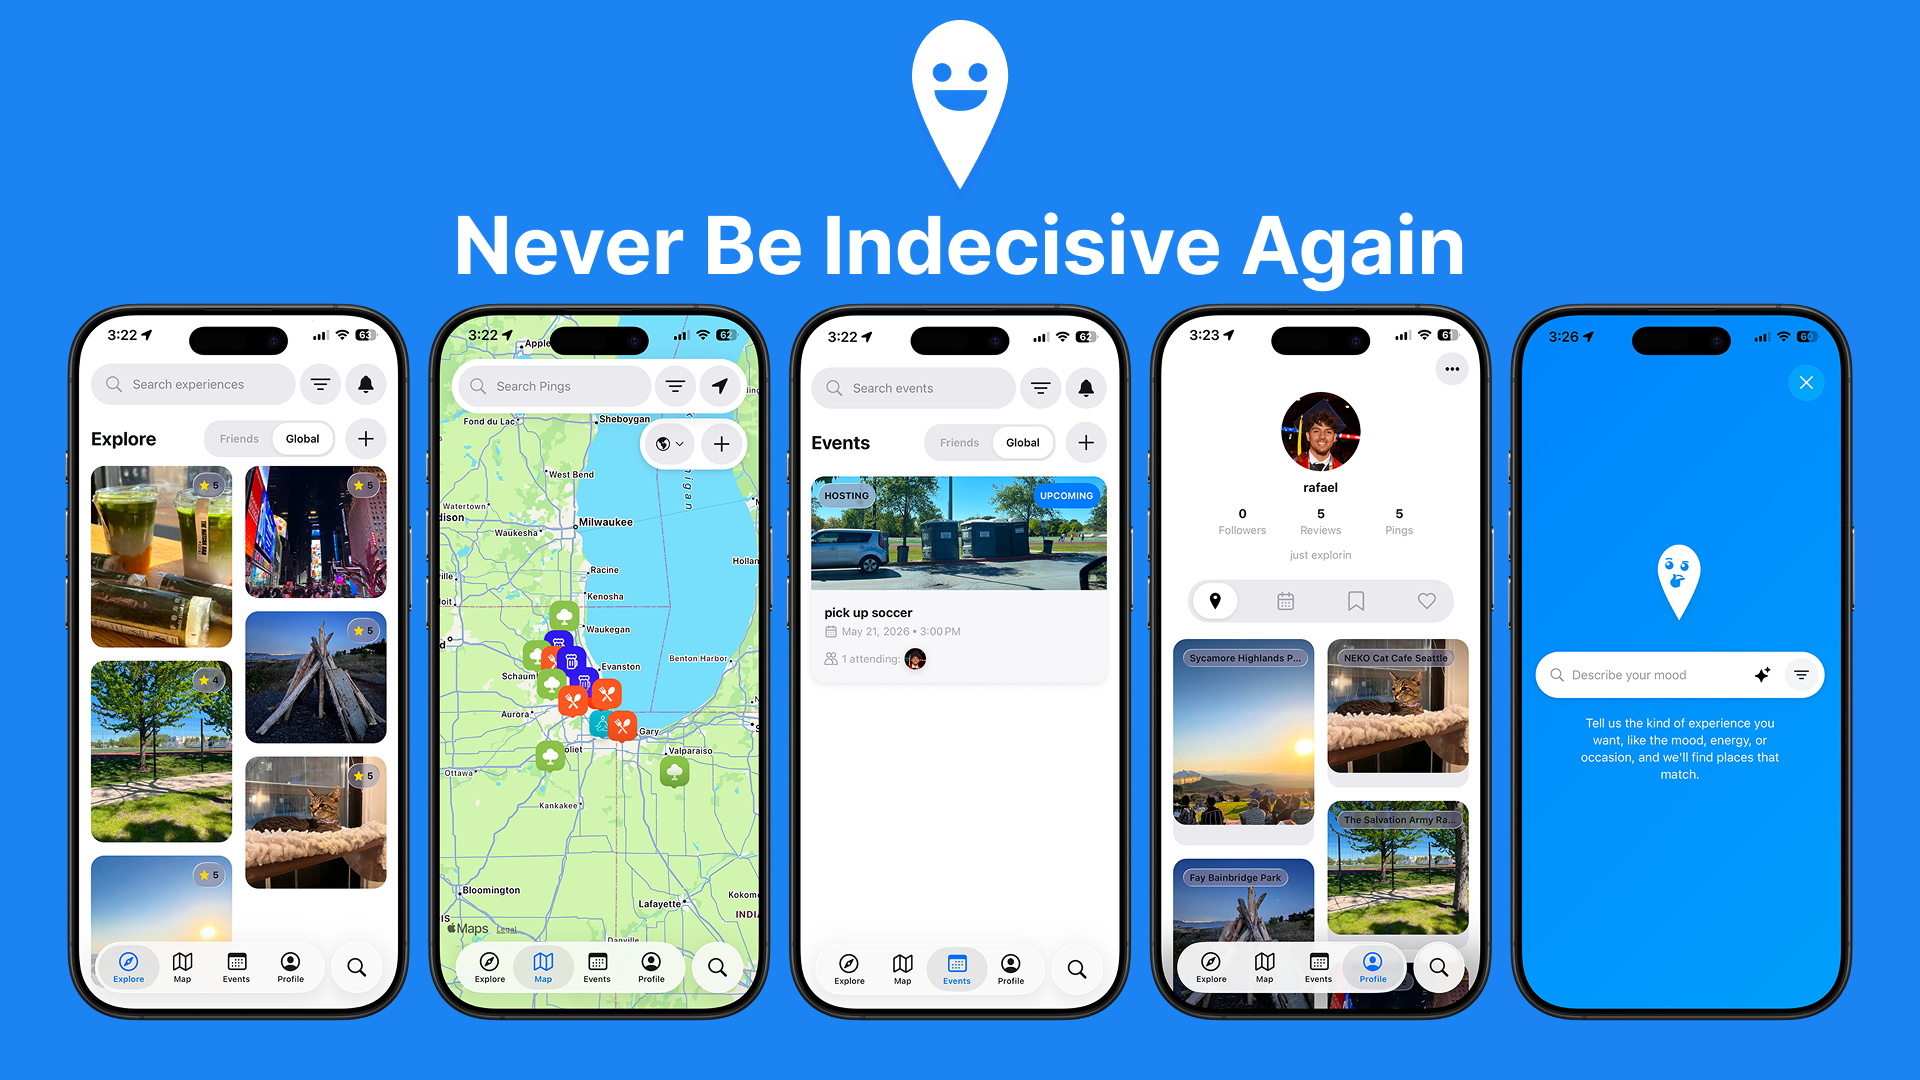
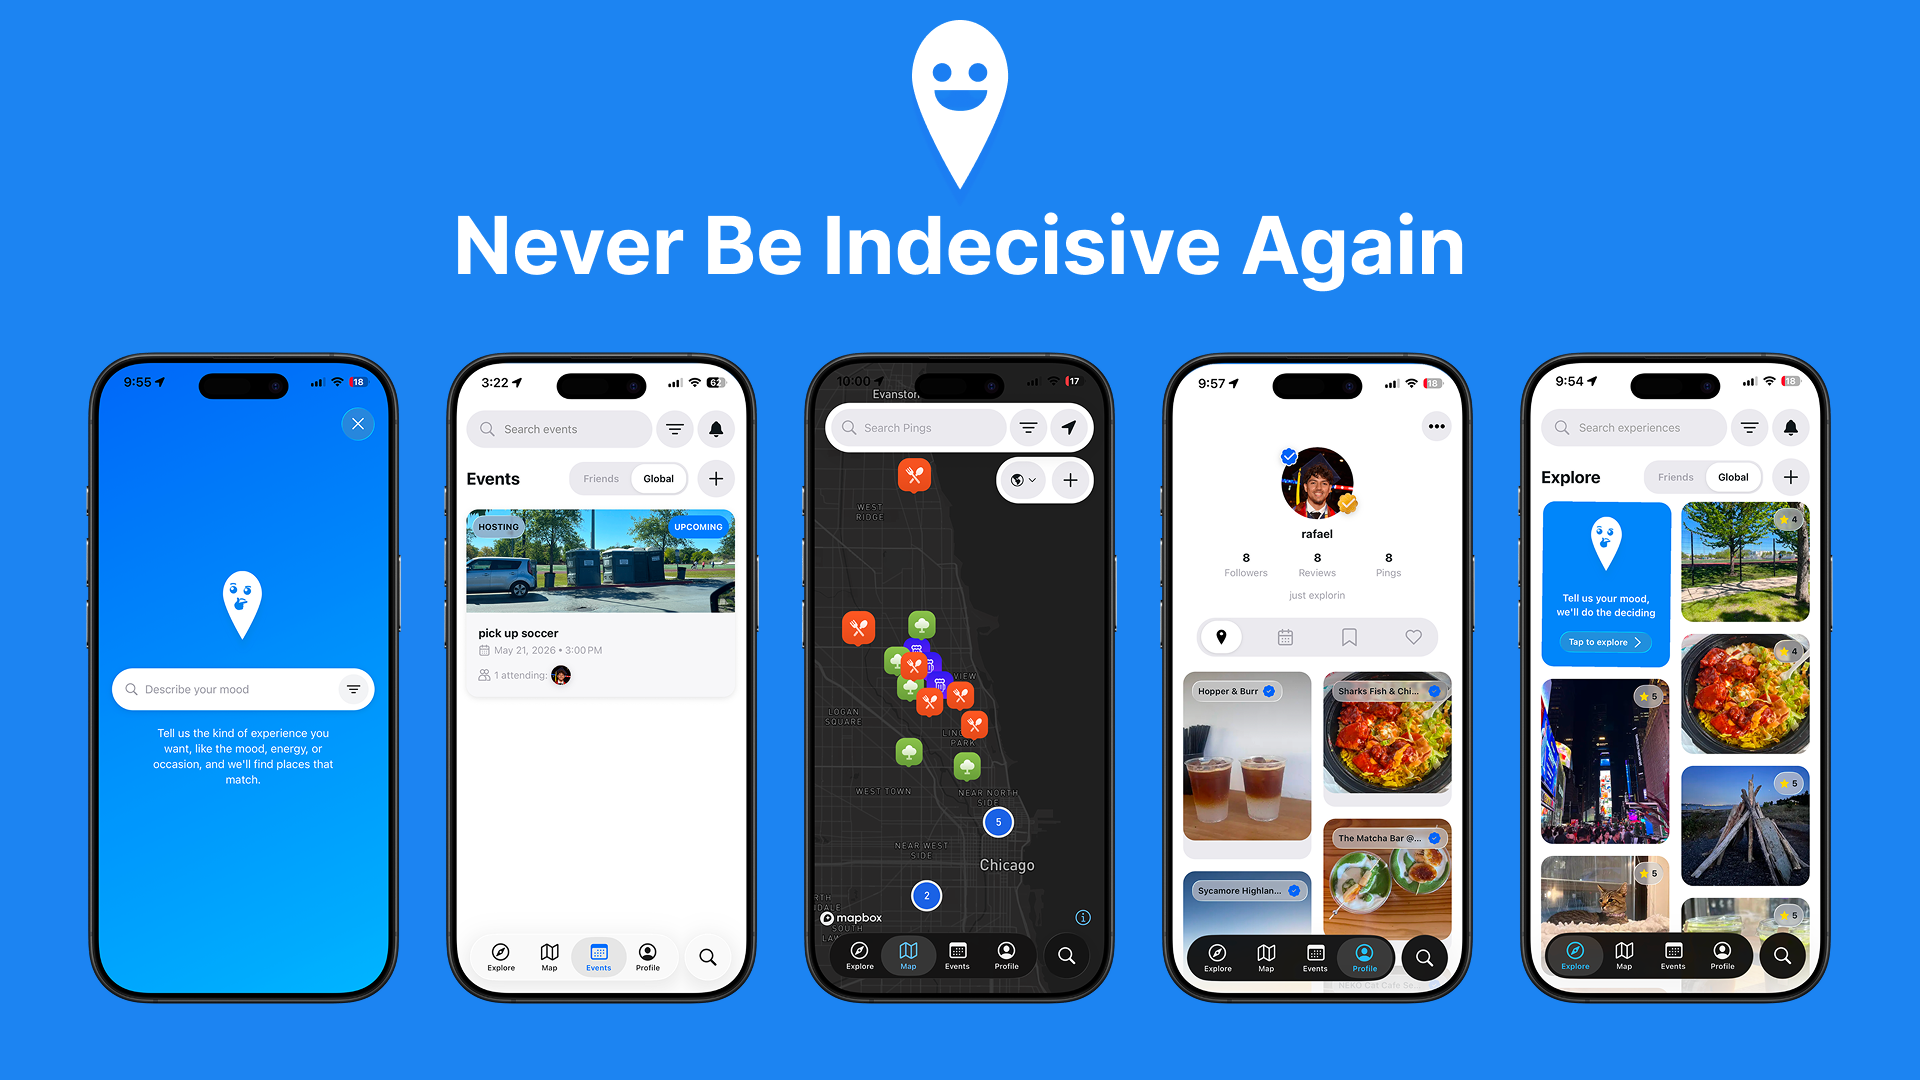
updated ping

diff --git a/src/components/Projects/Projects.tsx b/src/components/Projects/Projects.tsx
@@ -63,7 +63,7 @@ export default function Projects() {
       id: 1,
       title: "Lupe's Garage Doors",
       desc: 'Garage Door Installation Business',
-      href: 'https://master.dxfobhontupjx.amplifyapp.com/',
+      href: 'https://www.lupesgaragedoors.com',
       imgSrc: lupes,
       delay: 0,
     },
@@ -134,7 +134,7 @@ export default function Projects() {
             title: p.title,
             brand: "",
             description: p.desc || "",
-            tags: p.id === 5 ? ["Open Source", "Experiments"] : (p.tags || ["React", "Next.js", "Tailwind", "Full Stack"]),
+            tags: p.id === 5 ? ["Open Source", "Experiments"] : (p.tags || ["React", "Next.js", "Tailwind"]),
             imageUrl: p.id === 5 ? undefined : (typeof p.imgSrc === 'string' ? p.imgSrc : p.imgSrc.src),
             link: p.href,
             bgColor: p.id === 5 ? '#0d1117' : undefined,